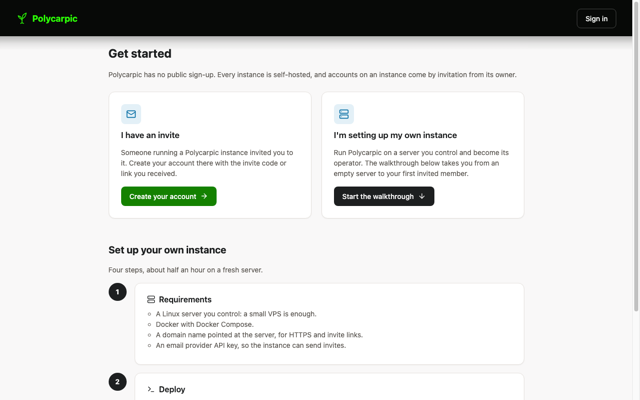
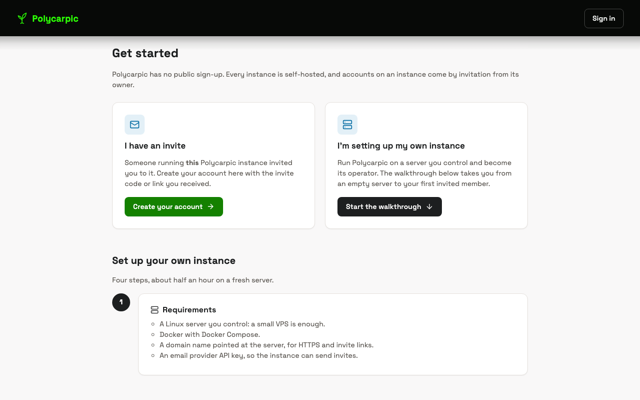
design(flows-refine): sign-up invite break, get-started invite copy
Sign up separates the invite code from the Google button with a rule and
a caption, so the invite reads as common to both account paths. Get
started's invite card names this instance; step 3 lands on the user's
own Person entity. Thumbnails re-rendered.

Claude-Session: https://claude.ai/code/session_01ShccjGpngWMgusX4atqtRi

diff --git a/docs/DESIGN/styled-screens/sign-up.html b/docs/DESIGN/styled-screens/sign-up.html
@@ -8,7 +8,7 @@
 <link rel="stylesheet" href="../screen.css">
 </head>
 <body>
-<!-- Sign up: invite-gated account creation, in Login's split layout. A visitor arrives from an invite link (shown: the code pre-filled and validated, naming the inviter and the entity) or types a code. Then the account: the Google button, or email + password. Create account hands off to Membership setup, where the invited entity is waiting. Visitors without an invite are pointed to Get started. -->
+<!-- Sign up: invite-gated account creation, in Login's split layout. A visitor arrives from an invite link (shown: the code pre-filled and validated, naming the inviter and the entity) or types a code. The invite is common to both account paths, so a rule and a caption separate it from the Google button: the Google button, or email + password. Create account lands on the dashboard of the invited entity; the new user's own Person entity is created at the same time. Visitors without an invite are pointed to Get started. -->
 <div class="auth-shell">
   <div class="auth-form-pane">
     <div class="auth-logo"><span class="brand-icon"><svg class="brand-mark" viewBox="0 0 24 24" fill="none" stroke="currentColor" stroke-width="1.5" stroke-linecap="round" stroke-linejoin="round" aria-hidden="true"><path d="M12.61 12.23 C11.88 9.39 12.74 6.15 15.45 4.12 C17.07 2.91 18.69 2.23 20.04 1.55 C19.55 5.12 18.20 9.53 13.42 12.23"/><path d="M10.50 13.66 C10.74 11.07 8.47 8.36 3.88 6.96 C5.12 10.26 7.07 13.18 10.50 13.66 Z"/><path d="M10.50 13.66 C11.39 14.74 11.66 15.88 11.58 17.09 L11.61 21.23"/><path d="M12.61 12.23 C12.07 13.99 11.61 15.61 11.58 17.09"/><path d="M8.74 22.36 C10.04 21.28 13.28 21.01 14.77 22.42"/></svg></span><span>Polycarpic</span></div>
@@ -21,6 +21,8 @@
         <input id="invite-code" class="input mono" type="text" value="PLY-7K4M-Q9TX" aria-describedby="invite-status">
         <div class="invite-status" id="invite-status"><span class="badge badge-positive-soft"><span class="icon icon-sm"><svg viewBox="0 0 24 24" fill="none" stroke="currentColor" stroke-width="2" stroke-linecap="round" stroke-linejoin="round"><circle cx="12" cy="12" r="10"/><path d="m9 12 2 2 4-4"/></svg></span>Valid invite</span>from Mosko, to The Moskos (Household)</div>
       </div>
+
+      <div class="auth-section-break">Then create your account, with Google or with email</div>
 
       <div class="auth-oauth-row">
         <button class="btn btn-dark"><span class="oauth-glyph" aria-hidden="true"><svg viewBox="0 0 24 24"><path fill="#4285F4" d="M23.52 12.27c0-.85-.08-1.67-.22-2.45H12v4.64h6.47a5.53 5.53 0 0 1-2.4 3.63v3.01h3.88c2.27-2.09 3.57-5.17 3.57-8.83z"/><path fill="#34A853" d="M12 24c3.24 0 5.96-1.07 7.95-2.9l-3.88-3.01c-1.08.72-2.45 1.15-4.07 1.15-3.13 0-5.78-2.11-6.73-4.95H1.27v3.1A12 12 0 0 0 12 24z"/><path fill="#FBBC05" d="M5.27 14.29A7.2 7.2 0 0 1 4.9 12c0-.8.14-1.57.37-2.29v-3.1H1.27A12 12 0 0 0 0 12c0 1.94.46 3.77 1.27 5.39l4-3.1z"/><path fill="#EA4335" d="M12 4.75c1.77 0 3.35.61 4.6 1.8l3.44-3.44C17.95 1.19 15.24 0 12 0A12 12 0 0 0 1.27 6.61l4 3.1C6.22 6.86 8.87 4.75 12 4.75z"/></svg></span>Continue with Google</button>

diff --git a/docs/DESIGN/styled-screens/get-started.html b/docs/DESIGN/styled-screens/get-started.html
@@ -30,7 +30,7 @@
     <div class="card fork-card">
       <span class="fork-icon"><span class="icon"><svg viewBox="0 0 24 24" fill="none" stroke="currentColor" stroke-width="2" stroke-linecap="round" stroke-linejoin="round"><rect width="20" height="16" x="2" y="4" rx="2"/><path d="m22 7-8.97 5.7a1.94 1.94 0 0 1-2.06 0L2 7"/></svg></span></span>
       <div class="card-title">I have an invite</div>
-      <p>Someone running a Polycarpic instance invited you to it. Create your account there with the invite code or link you received.</p>
+      <p>Someone running <strong>this</strong> Polycarpic instance invited you to it. Create your account here with the invite code or link you received.</p>
       <a class="btn btn-default" href="sign-up.html">Create your account <span class="icon"><svg viewBox="0 0 24 24" fill="none" stroke="currentColor" stroke-width="2" stroke-linecap="round" stroke-linejoin="round"><path d="M5 12h14"/><path d="m12 5 7 7-7 7"/></svg></span></a>
     </div>
     <div class="card fork-card">
@@ -64,7 +64,7 @@ docker compose up -d</pre>
       </div></li>
       <li class="step"><div class="card">
         <div class="card-title"><span class="icon"><svg viewBox="0 0 24 24" fill="none" stroke="currentColor" stroke-width="2" stroke-linecap="round" stroke-linejoin="round"><path d="M15 3h4a2 2 0 0 1 2 2v14a2 2 0 0 1-2 2h-4"/><polyline points="10 17 15 12 10 7"/><line x1="15" x2="3" y1="12" y2="12"/></svg></span>First operator sign-in</div>
-        <p>Open your domain and sign in with the operator account the setup created. You land on Membership setup: create your first entity (a Person, Trust, Business or Household).</p>
+        <p>Open your domain and sign in with the operator account the setup created. You land on your own Person entity's dashboard; create further entities (a Trust, Business or Household) from Entities.</p>
       </div></li>
       <li class="step"><div class="card">
         <div class="card-title"><span class="icon"><svg viewBox="0 0 24 24" fill="none" stroke="currentColor" stroke-width="2" stroke-linecap="round" stroke-linejoin="round"><path d="M16 21v-2a4 4 0 0 0-4-4H6a4 4 0 0 0-4 4v2"/><circle cx="9" cy="7" r="4"/><line x1="19" x2="19" y1="8" y2="14"/><line x1="22" x2="16" y1="11" y2="11"/></svg></span>Invite members</div>

diff --git a/docs/DESIGN/screen.css b/docs/DESIGN/screen.css
@@ -1239,6 +1239,10 @@ html:has(.has-brand-bar) { scroll-padding-top: calc(var(--bar-h, 72px) + 16px); 
 /* Sign up's invite field in its pre-filled state (arrived from an invite
    link): the code, plus a line naming who invited the visitor and to
    what, marked valid. */
+/* Sign up: the invite code is common to BOTH account paths (Google and
+   email), so a full-width rule and a caption separate it from the OAuth
+   button below. Without the break the code reads as paired with Google. */
+.auth-section-break { margin: 32px 0 20px; padding-top: 16px; border-top: 1px solid var(--border); font-size: 12px; font-weight: 500; color: var(--muted-foreground); }
 .invite-status { display: flex; align-items: center; gap: 8px; margin-top: 8px; font-size: 12px; color: var(--muted-foreground); flex-wrap: wrap; }
 .auth-field .field-help { font-size: 12px; color: var(--muted-foreground); margin-top: 6px; }
 
